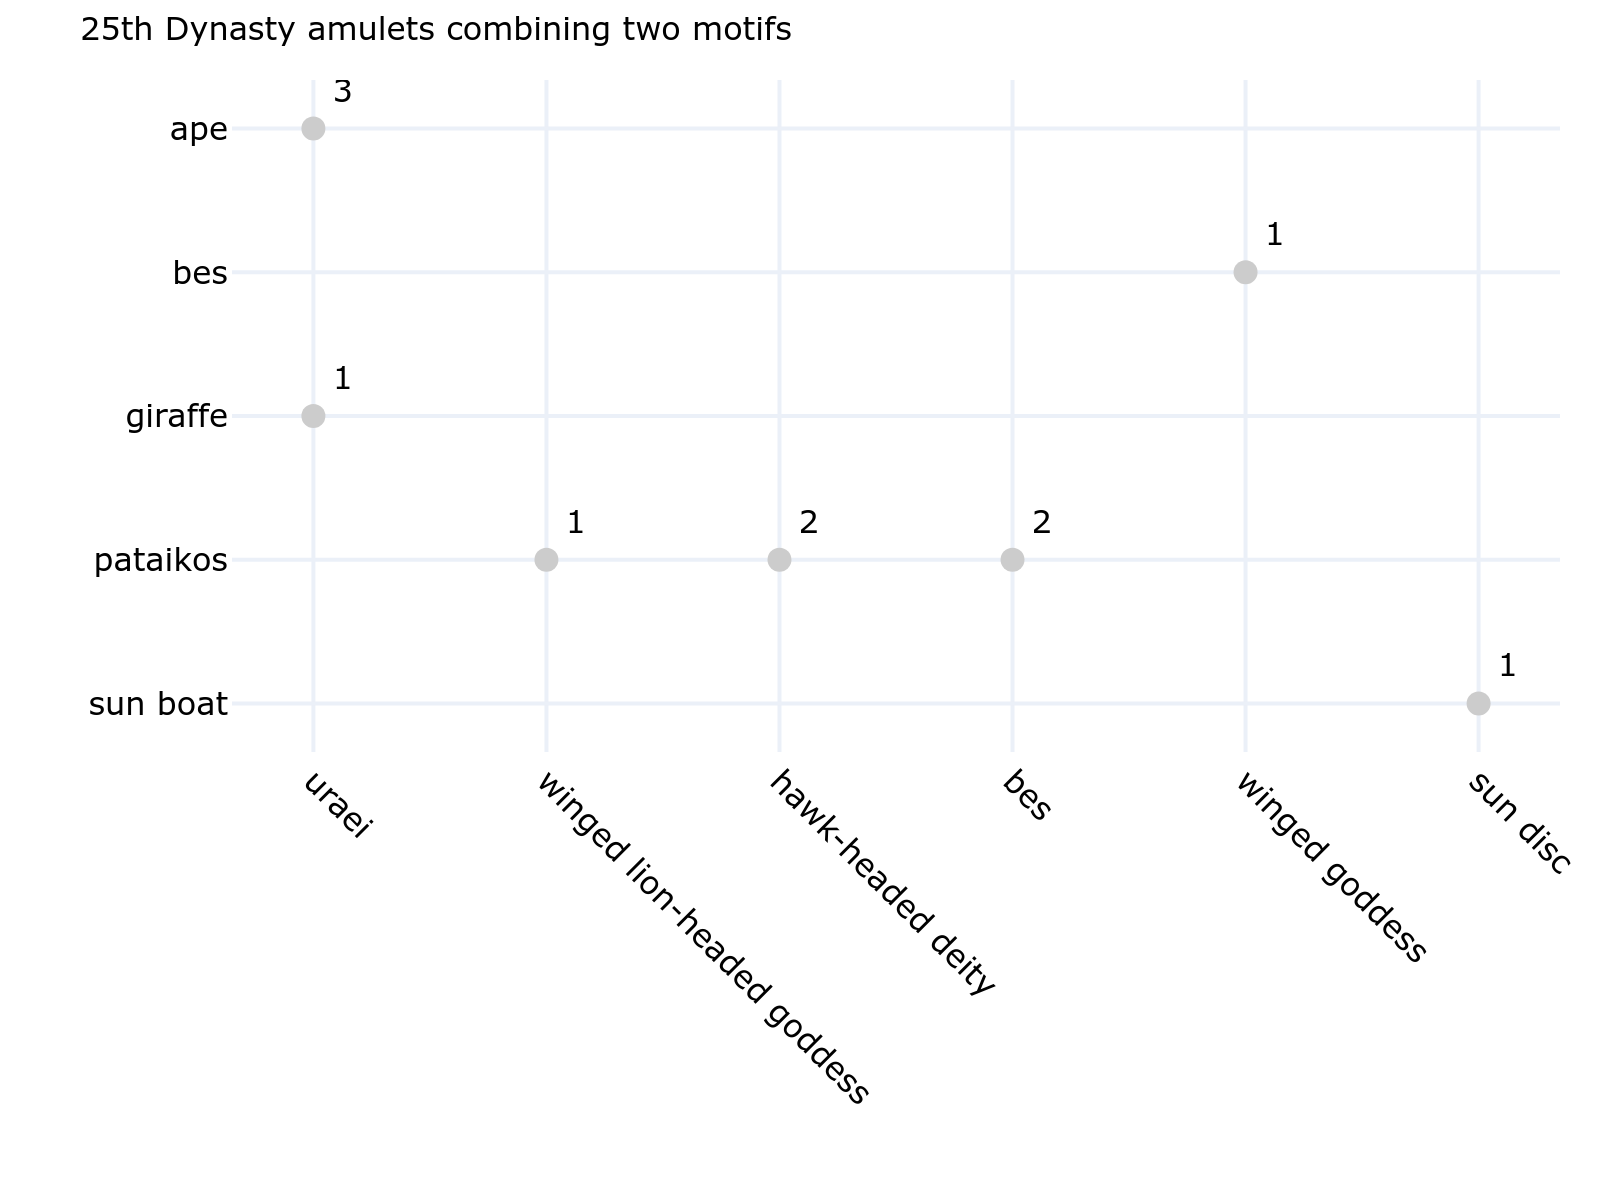
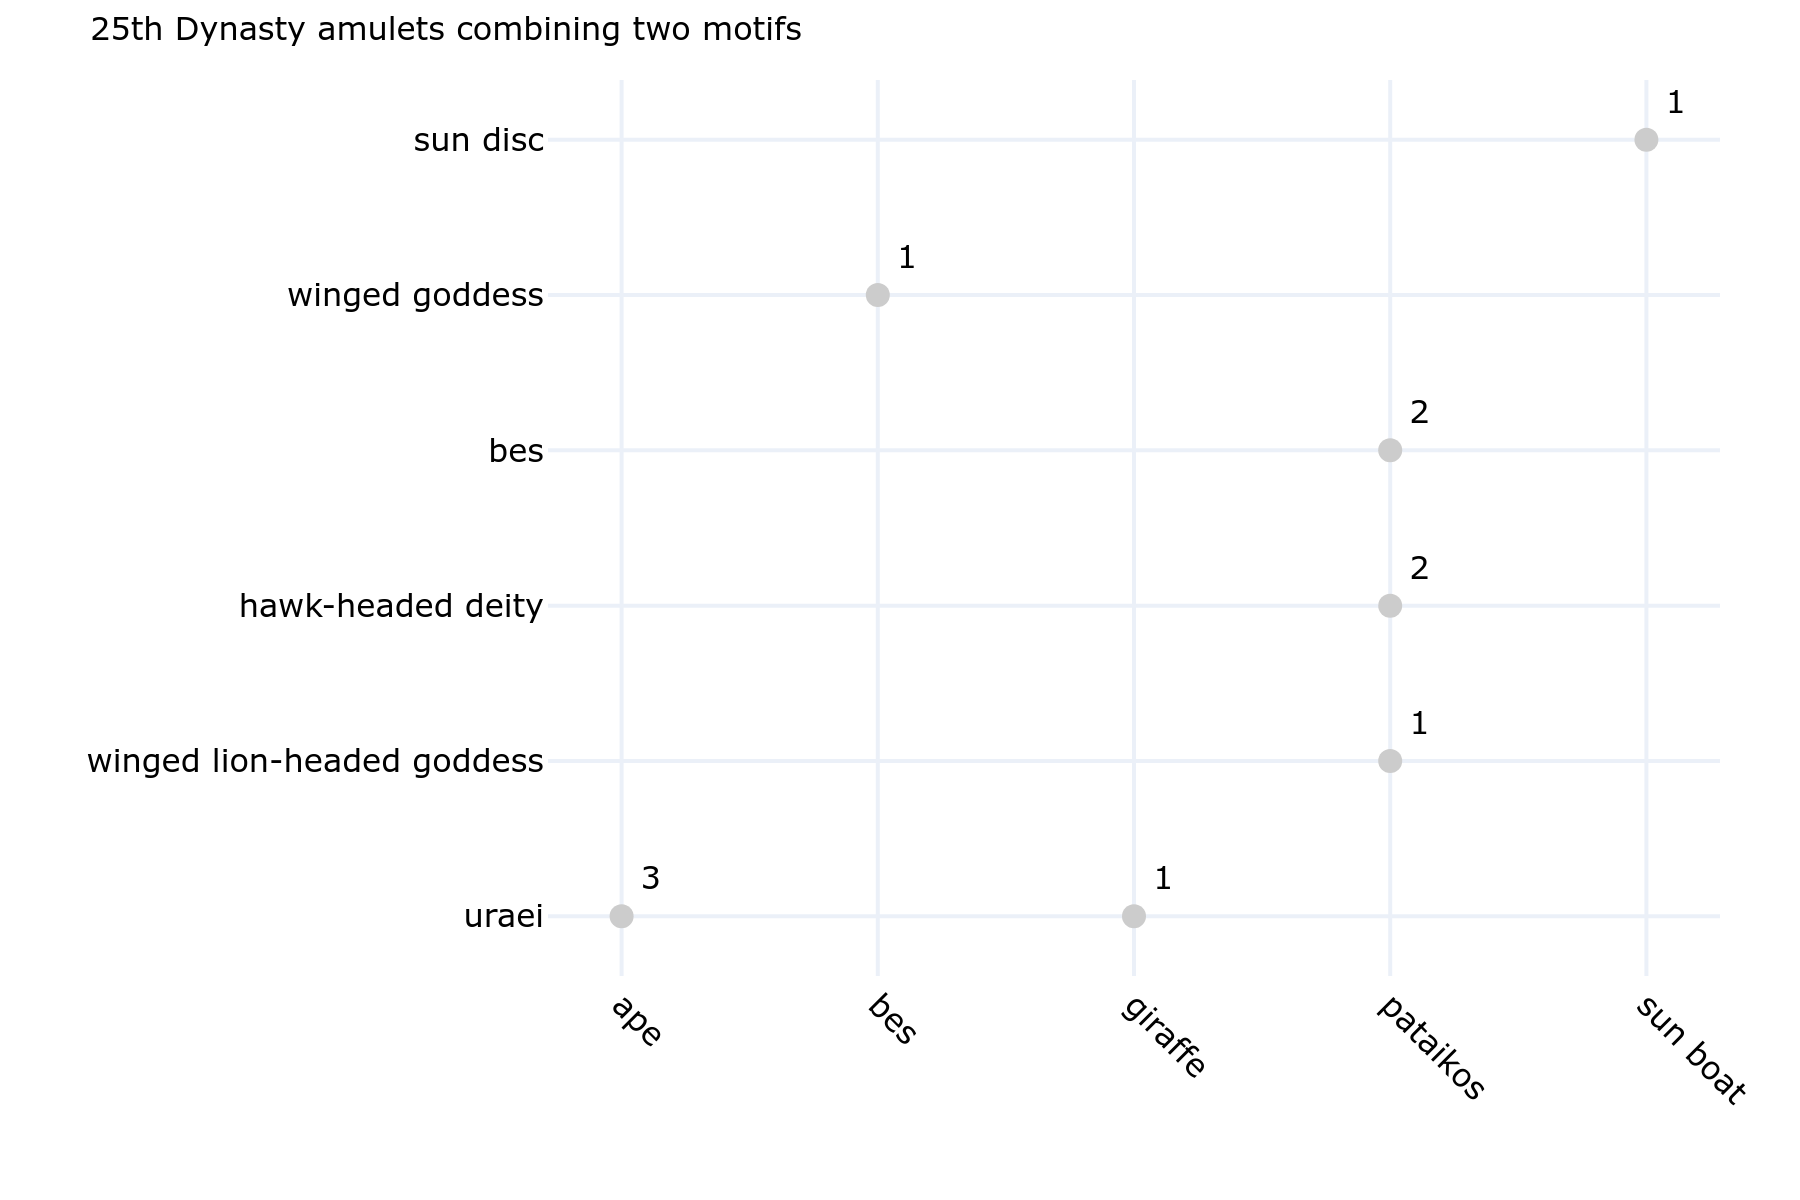
final

diff --git a/chapter5/25_with_2forms.py b/chapter5/25_with_2forms.py
@@ -35,8 +35,8 @@ df = pd.read_sql(query, engine)
 
 fig = px.scatter(
     df,
-    x="form2",
-    y="form",
+    x="form",
+    y="form2",
     text='total',                 
     color_discrete_sequence=['#cccccc'],
     title="25th Dynasty amulets combining two motifs",
@@ -61,7 +61,7 @@ fig.update_layout(
         size=8
     ),
     legend_title_text='',
-    margin=dict(l=0, r=10, t=20, b=0),
+    margin=dict(l=0, r=20, t=20, b=0),
     autosize=True,
     title_font=dict(size=8),
     coloraxis=dict(
@@ -83,4 +83,4 @@ fig.update_traces(textposition='top right', textfont_size=8)
 fig.update_xaxes(title_text='', tickangle=45)
 fig.update_yaxes(title_text='')
 
-pio.write_image(fig, 'images/chapter5/25_with_2forms.png',scale=4, width=400, height=300)
+pio.write_image(fig, 'images/chapter5/25_with_2forms.png',scale=4, width=450, height=300)
